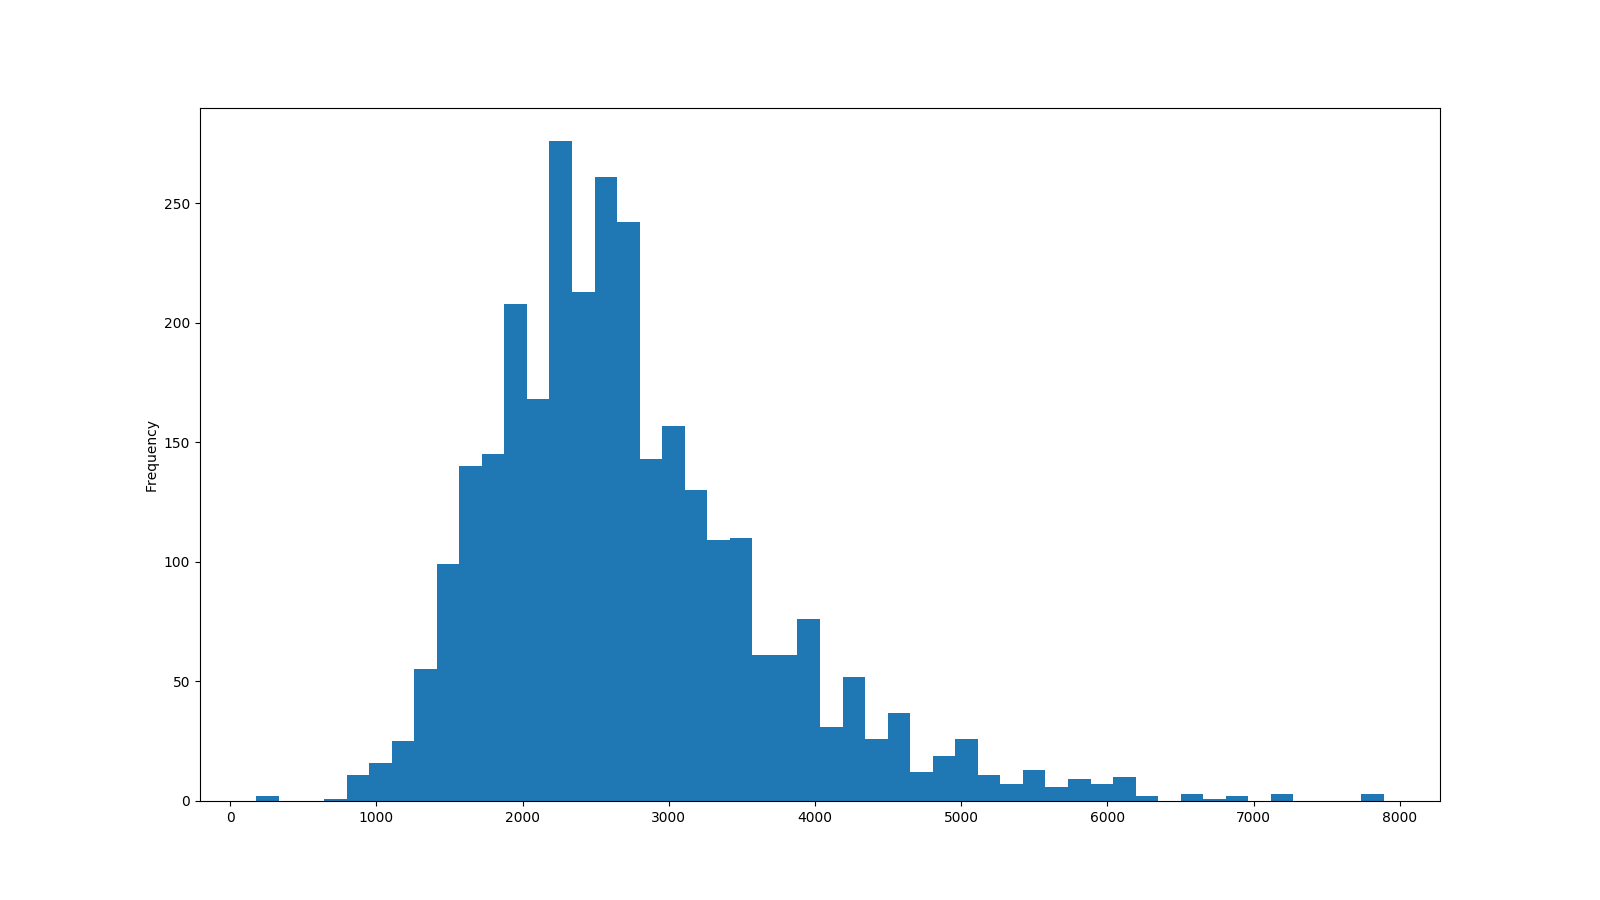
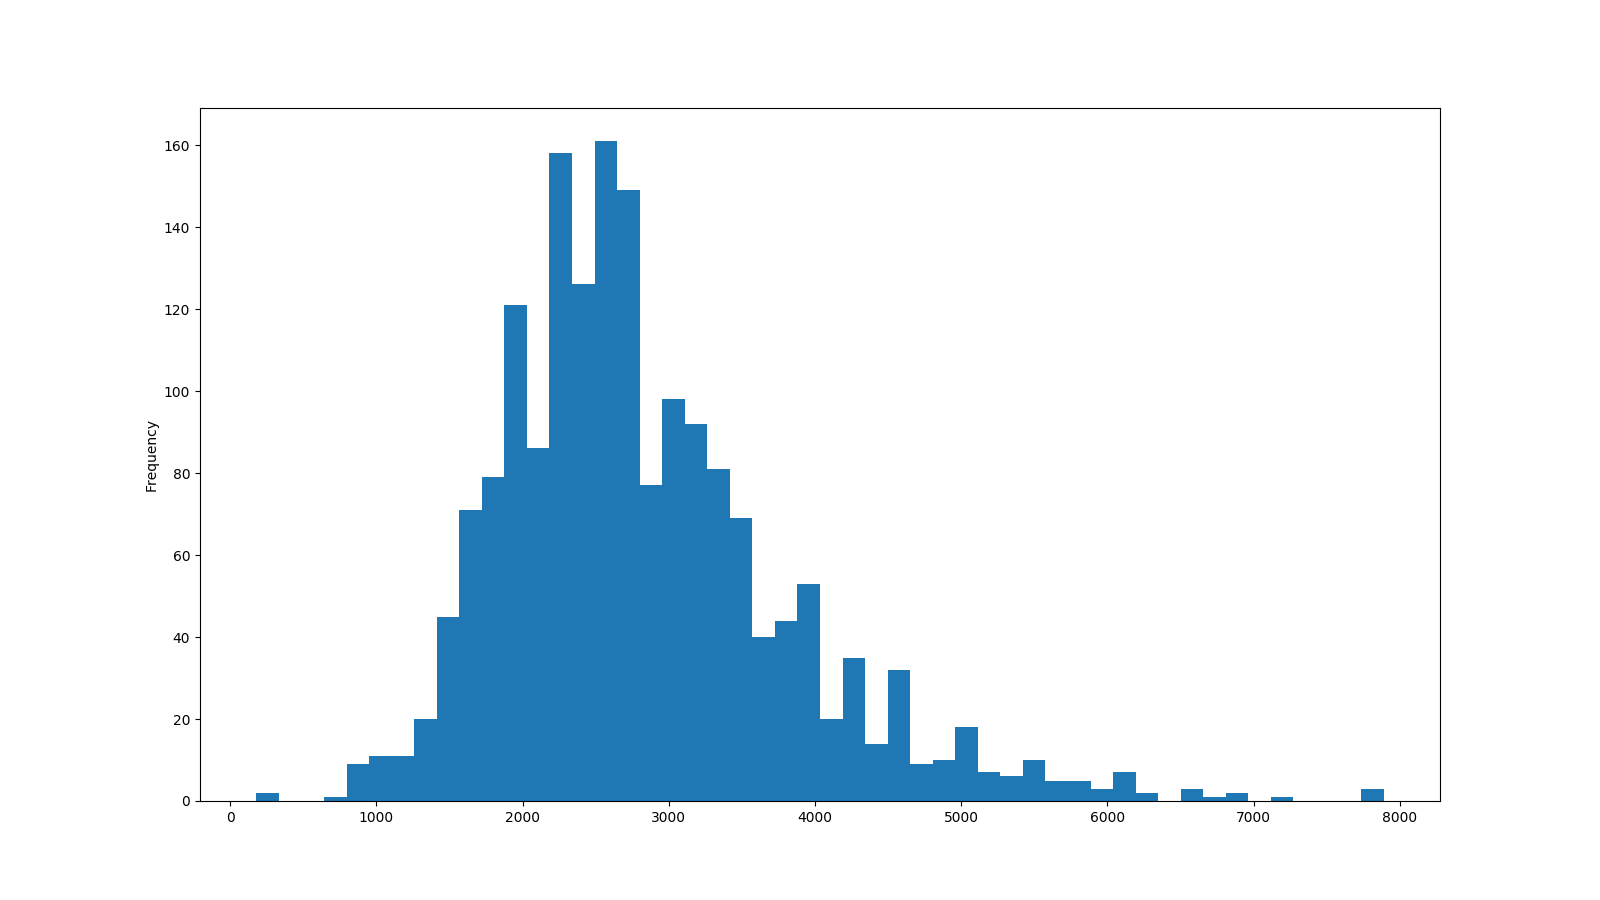
Added salaries to Readme

diff --git a/analyze.py b/analyze.py
@@ -74,7 +74,7 @@ for user, content in data:
 top_role_tokens = sorted(role_tokens.items(), key=lambda x: x[1], reverse=True)[:200]
 
 df = pandas.DataFrame(parsed_data)
-unique_users = False
+unique_users = True
 if unique_users:
     filtered_data = []
     for user, group in df.groupby("user"):

diff --git a/README.md b/README.md
@@ -1,6 +1,11 @@
 # tweakers-salary-scrape
 
-``` 
+This code scrapes self-reported salary data from Gathering of Tweakers and allows for basic analysis
+of the facts presented in the forum threads.
+
+![A histogram showing adjusted salaries](https://raw.githubusercontent.com/StephanHeijl/tweakers-salary-scrape/master/AdjustedSalaries.png)
+
+```
 pip install scrapy
 scrapy runspider tweakspider -o messages.json -s DOWNLOAD_DELAY=5 -s CONCURRENT_REQUESTS=1
 ```
